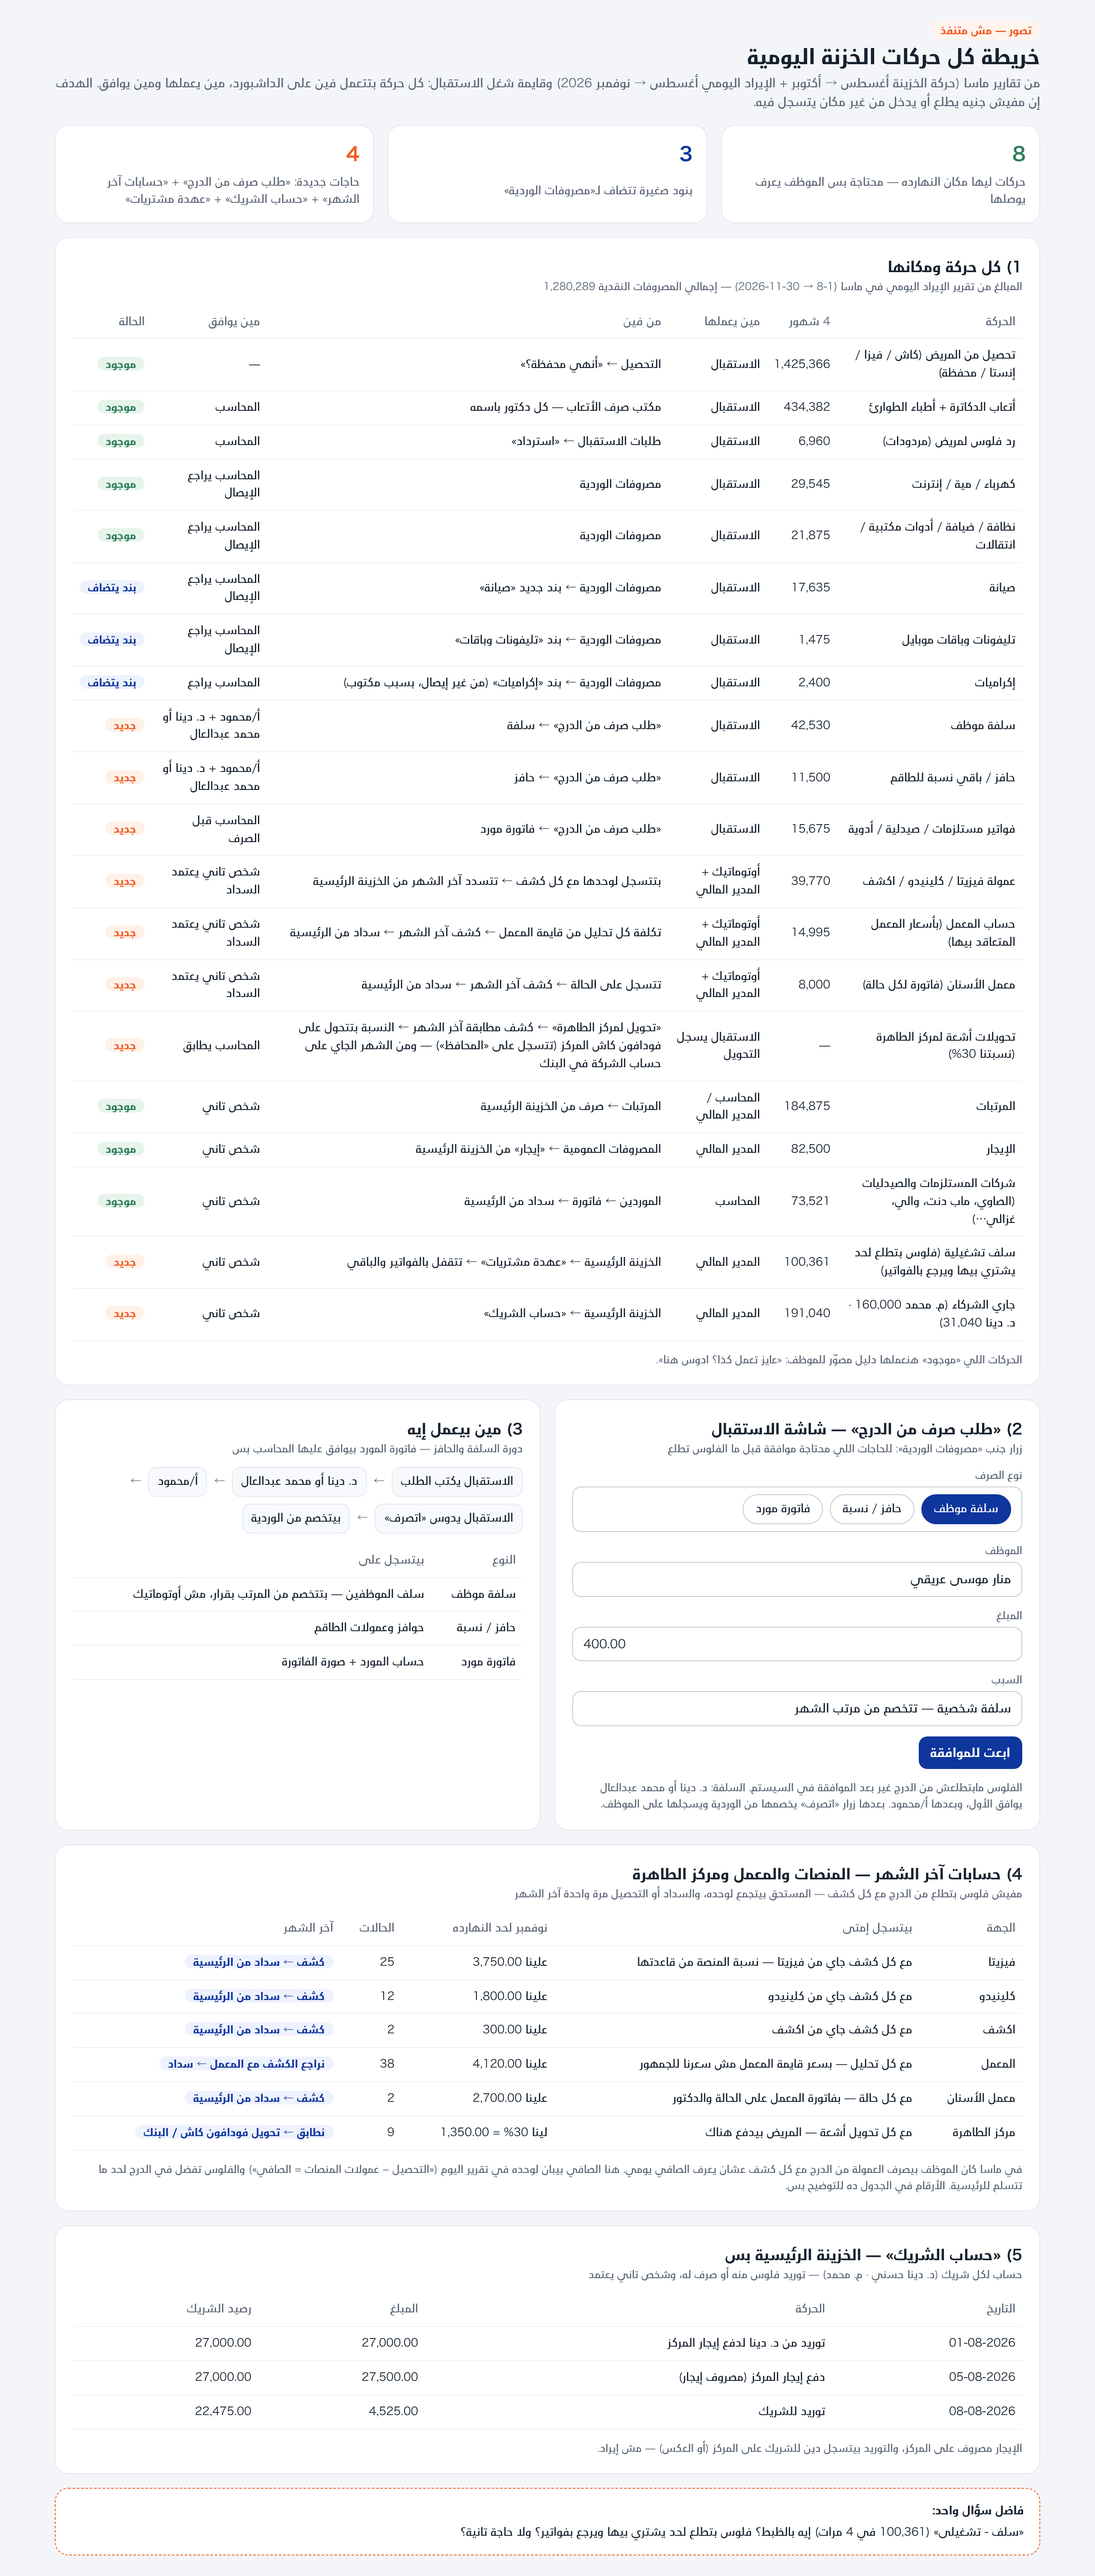
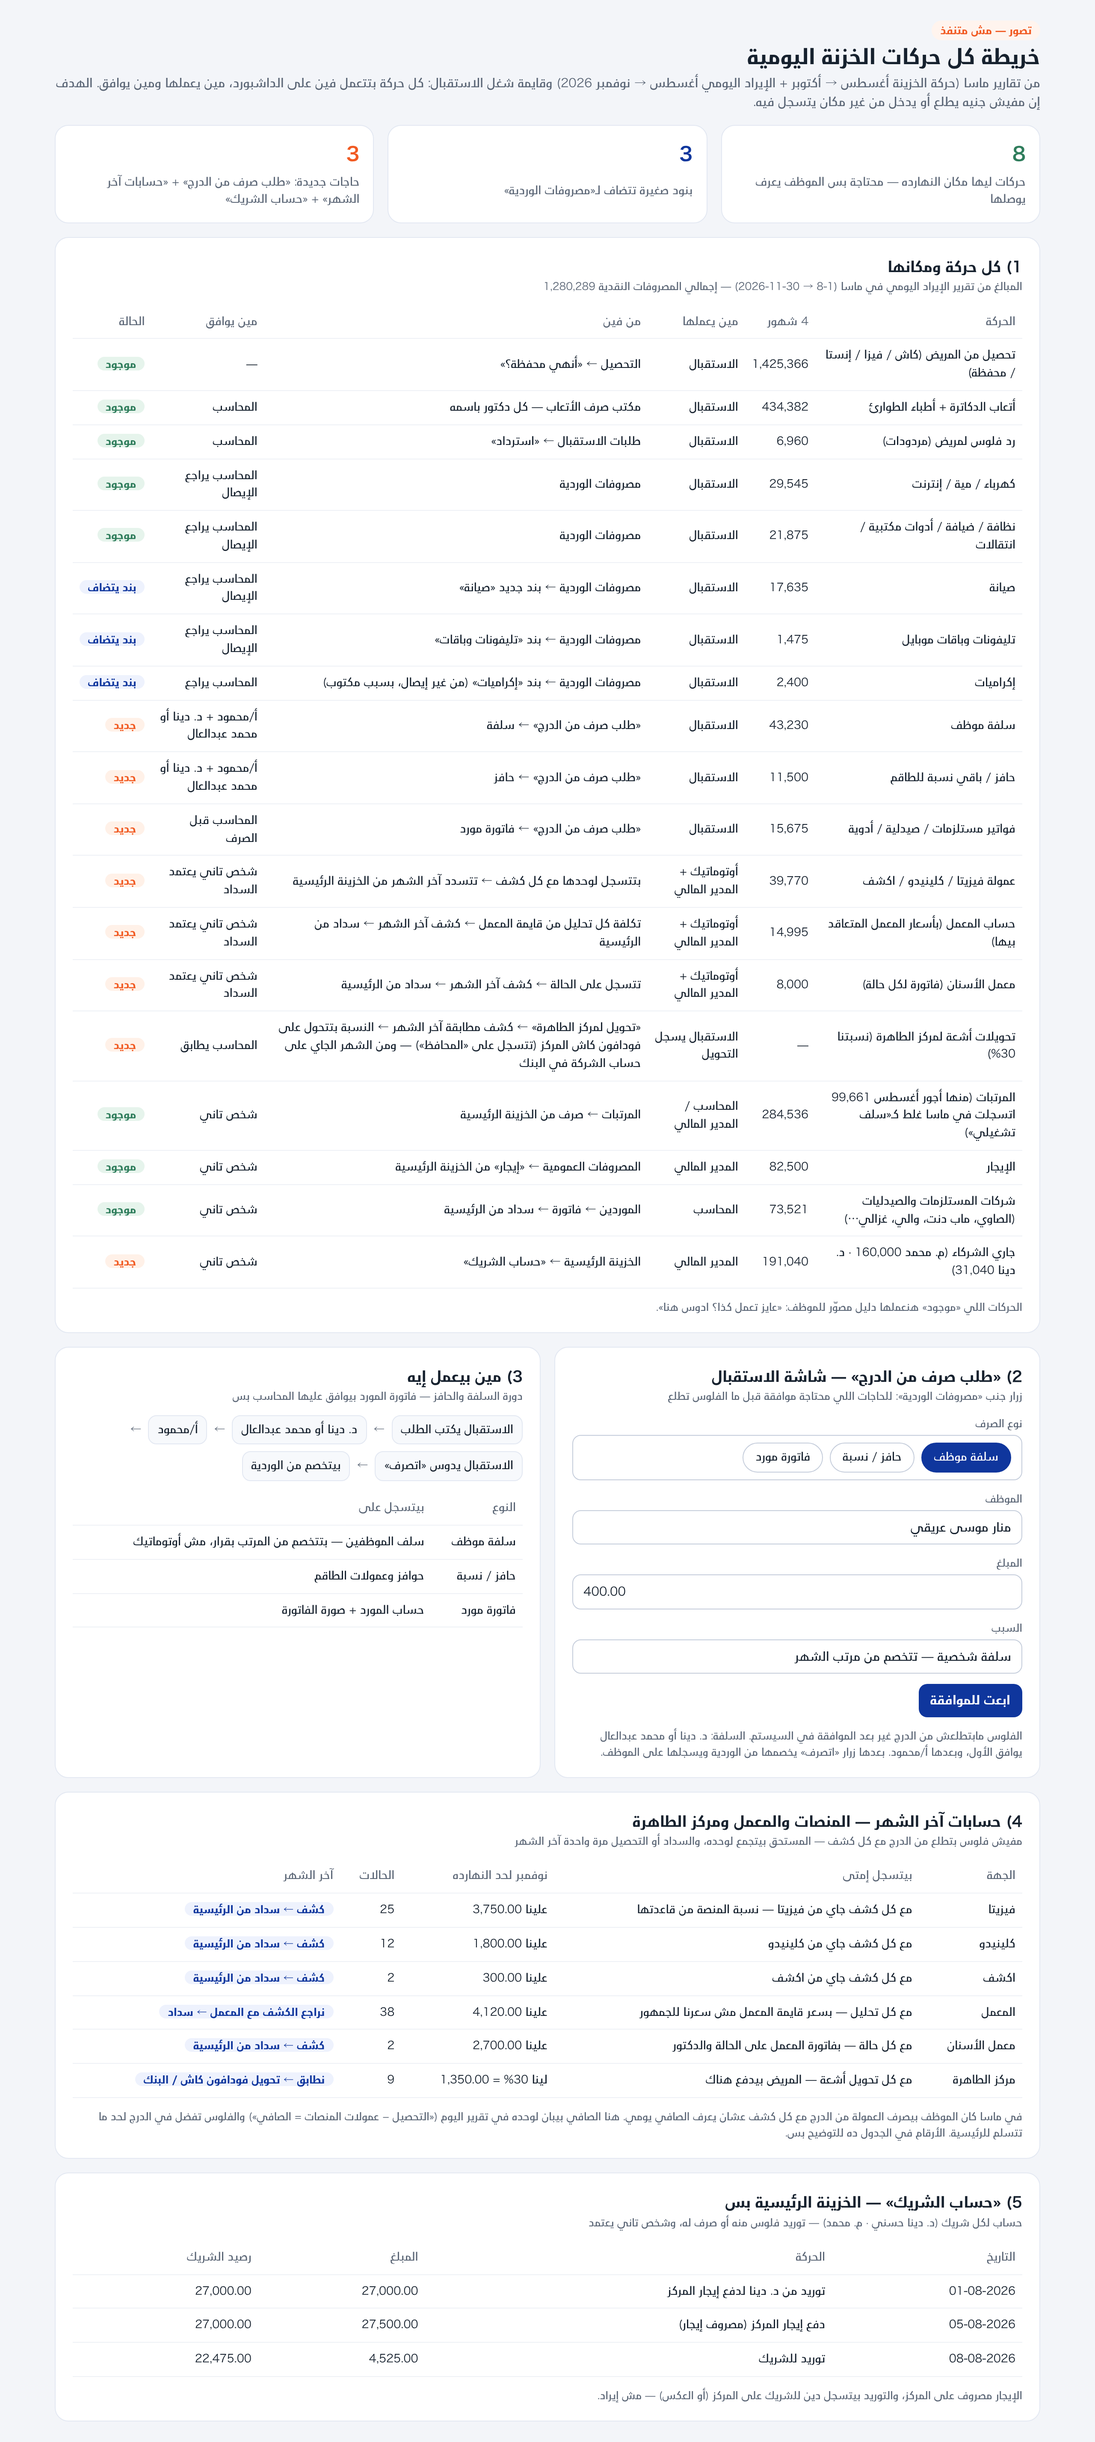
Mockup: Masa 'operating advances' were August wages + 3 staff advances
Claude-Session: https://claude.ai/code/session_01UqVZHWa751JciR5NzZebwW

diff --git a/docs/ui-references/mockups/daily-movements-map.html b/docs/ui-references/mockups/daily-movements-map.html
@@ -35,7 +35,7 @@ table{width:100%;border-collapse:collapse;font-size:13px}th,td{text-align:right;
 <div class="kpis">
  <div class="kpi ok"><b>8</b><span>حركات ليها مكان النهارده — محتاجة بس الموظف يعرف يوصلها</span></div>
  <div class="kpi small"><b>3</b><span>بنود صغيرة تتضاف لـ«مصروفات الوردية»</span></div>
- <div class="kpi new"><b>4</b><span>حاجات جديدة: «طلب صرف من الدرج» + «حسابات آخر الشهر» + «حساب الشريك» + «عهدة مشتريات»</span></div>
+ <div class="kpi new"><b>3</b><span>حاجات جديدة: «طلب صرف من الدرج» + «حسابات آخر الشهر» + «حساب الشريك»</span></div>
 </div>
 
 <section class="card">
@@ -49,17 +49,16 @@ table{width:100%;border-collapse:collapse;font-size:13px}th,td{text-align:right;
   <tr><td>صيانة</td><td class="num">17,635</td><td>الاستقبال</td><td>مصروفات الوردية ← بند جديد «صيانة»</td><td>المحاسب يراجع الإيصال</td><td><span class="st small">بند يتضاف</span></td></tr>
   <tr><td>تليفونات وباقات موبايل</td><td class="num">1,475</td><td>الاستقبال</td><td>مصروفات الوردية ← بند «تليفونات وباقات»</td><td>المحاسب يراجع الإيصال</td><td><span class="st small">بند يتضاف</span></td></tr>
   <tr><td>إكراميات</td><td class="num">2,400</td><td>الاستقبال</td><td>مصروفات الوردية ← بند «إكراميات» (من غير إيصال، بسبب مكتوب)</td><td>المحاسب يراجع</td><td><span class="st small">بند يتضاف</span></td></tr>
-  <tr><td>سلفة موظف</td><td class="num">42,530</td><td>الاستقبال</td><td>«طلب صرف من الدرج» ← سلفة</td><td>أ/محمود + د. دينا أو محمد عبدالعال</td><td><span class="st new">جديد</span></td></tr>
+  <tr><td>سلفة موظف</td><td class="num">43,230</td><td>الاستقبال</td><td>«طلب صرف من الدرج» ← سلفة</td><td>أ/محمود + د. دينا أو محمد عبدالعال</td><td><span class="st new">جديد</span></td></tr>
   <tr><td>حافز / باقي نسبة للطاقم</td><td class="num">11,500</td><td>الاستقبال</td><td>«طلب صرف من الدرج» ← حافز</td><td>أ/محمود + د. دينا أو محمد عبدالعال</td><td><span class="st new">جديد</span></td></tr>
   <tr><td>فواتير مستلزمات / صيدلية / أدوية</td><td class="num">15,675</td><td>الاستقبال</td><td>«طلب صرف من الدرج» ← فاتورة مورد</td><td>المحاسب قبل الصرف</td><td><span class="st new">جديد</span></td></tr>
   <tr><td>عمولة فيزيتا / كلينيدو / اكشف</td><td class="num">39,770</td><td>أوتوماتيك + المدير المالي</td><td>بتتسجل لوحدها مع كل كشف ← تتسدد آخر الشهر من الخزينة الرئيسية</td><td>شخص تاني يعتمد السداد</td><td><span class="st new">جديد</span></td></tr>
   <tr><td>حساب المعمل (بأسعار المعمل المتعاقد بيها)</td><td class="num">14,995</td><td>أوتوماتيك + المدير المالي</td><td>تكلفة كل تحليل من قايمة المعمل ← كشف آخر الشهر ← سداد من الرئيسية</td><td>شخص تاني يعتمد السداد</td><td><span class="st new">جديد</span></td></tr>
   <tr><td>معمل الأسنان (فاتورة لكل حالة)</td><td class="num">8,000</td><td>أوتوماتيك + المدير المالي</td><td>تتسجل على الحالة ← كشف آخر الشهر ← سداد من الرئيسية</td><td>شخص تاني يعتمد السداد</td><td><span class="st new">جديد</span></td></tr>
   <tr><td>تحويلات أشعة لمركز الطاهرة (نسبتنا 30%)</td><td class="num">—</td><td>الاستقبال يسجل التحويل</td><td>«تحويل لمركز الطاهرة» ← كشف مطابقة آخر الشهر ← النسبة بتتحول على فودافون كاش المركز (تتسجل على «المحافظ») — ومن الشهر الجاي على حساب الشركة في البنك</td><td>المحاسب يطابق</td><td><span class="st new">جديد</span></td></tr>
-  <tr><td>المرتبات</td><td class="num">184,875</td><td>المحاسب / المدير المالي</td><td>المرتبات ← صرف من الخزينة الرئيسية</td><td>شخص تاني</td><td><span class="st ok">موجود</span></td></tr>
+  <tr><td>المرتبات (منها أجور أغسطس 99,661 اتسجلت في ماسا غلط كـ«سلف تشغيلي»)</td><td class="num">284,536</td><td>المحاسب / المدير المالي</td><td>المرتبات ← صرف من الخزينة الرئيسية</td><td>شخص تاني</td><td><span class="st ok">موجود</span></td></tr>
   <tr><td>الإيجار</td><td class="num">82,500</td><td>المدير المالي</td><td>المصروفات العمومية ← «إيجار» من الخزينة الرئيسية</td><td>شخص تاني</td><td><span class="st ok">موجود</span></td></tr>
   <tr><td>شركات المستلزمات والصيدليات (الصاوي، ماب دنت، والي، غزالي…)</td><td class="num">73,521</td><td>المحاسب</td><td>الموردين ← فاتورة ← سداد من الرئيسية</td><td>شخص تاني</td><td><span class="st ok">موجود</span></td></tr>
-  <tr><td>سلف تشغيلية (فلوس بتطلع لحد يشتري بيها ويرجع بالفواتير)</td><td class="num">100,361</td><td>المدير المالي</td><td>الخزينة الرئيسية ← «عهدة مشتريات» ← تتقفل بالفواتير والباقي</td><td>شخص تاني</td><td><span class="st new">جديد</span></td></tr>
   <tr><td>جاري الشركاء (م. محمد 160,000 · د. دينا 31,040)</td><td class="num">191,040</td><td>المدير المالي</td><td>الخزينة الرئيسية ← «حساب الشريك»</td><td>شخص تاني</td><td><span class="st new">جديد</span></td></tr>
  </tbody></table>
  <p class="note">الحركات اللي «موجود» هنعملها دليل مصوّر للموظف: «عايز تعمل كذا؟ ادوس هنا».</p>
@@ -108,6 +107,4 @@ table{width:100%;border-collapse:collapse;font-size:13px}th,td{text-align:right;
  </tbody></table>
  <p class="note">الإيجار مصروف على المركز، والتوريد بيتسجل دين للشريك على المركز (أو العكس) — مش إيراد.</p>
 </section>
-
-<div class="q"><b>فاضل سؤال واحد:</b><span>«سلف - تشغيلى» (100,361 في 4 مرات) إيه بالظبط؟ فلوس بتطلع لحد يشتري بيها ويرجع بفواتير؟ ولا حاجة تانية؟</span></div>
 </div></body></html>
